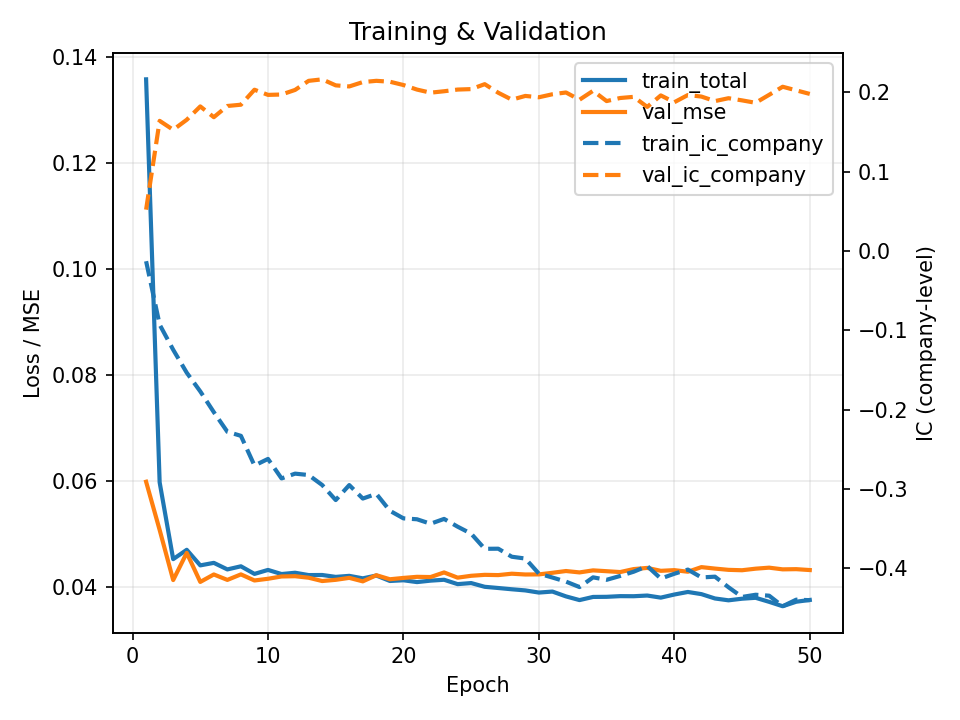
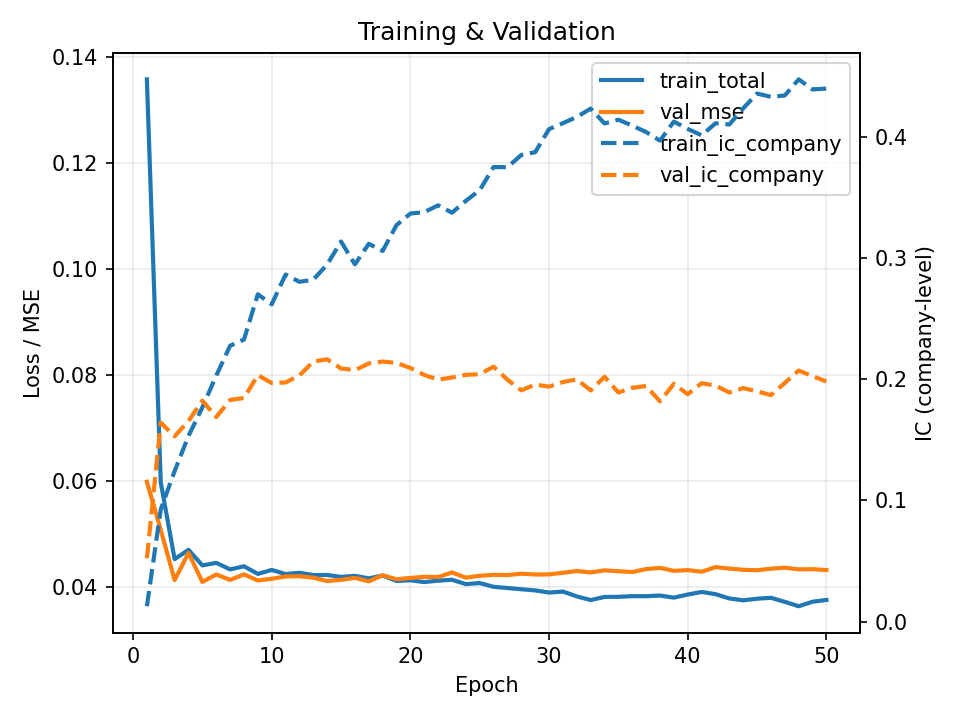
myWork_20251020

diff --git a/model_test.py b/model_test.py
@@ -158,20 +158,26 @@ def information_coefficient_loss(pred: torch.Tensor, target: torch.Tensor, mode:
     else:
         raise ValueError("ic mode must be 'pearson' or 'spearman'")
     return -ic.mean()  # loss
-
+6                                                                                                                                                                                                                                                          
 
 # --------------------------
 # Main model (no cross-attn; concat then MLP)
 # --------------------------
 class ESGMultiModalModel(nn.Module):
     def __init__(self,
-                 d_price: int, d_finance: int, d_news: int, d_event: int,
+                 d_price: int, 
+                 d_finance: int, 
+                 d_news: int, 
+                 d_event: int,
                  hidden: int = 64,
-                 lstm_layers: int = 1, lstm_bidirectional: bool = False,
+                 lstm_layers: int = 1, 
+                 lstm_bidirectional: bool = False,
                  dropout: float = 0.1,
                  nhead_time: int = 4,
-                 news_layers: int = 2, event_layers: int = 2,
-                 ic_weight: float = 0.2, ic_type: str = "pearson"):
+                 news_layers: int = 2, 
+                 event_layers: int = 2,
+                 ic_weight: float = 0.2, 
+                 ic_type: str = "pearson"):
         super().__init__()
         self.ic_weight = ic_weight
         self.ic_type = ic_type
@@ -289,10 +295,10 @@ class ESGMultiModalModel(nn.Module):
                 rp = _rank_transform(pN, dim=1)
                 rt = _rank_transform(tN, dim=1)
                 ic_per_b = _pearson_corr(rp, rt, dim=1)
-            ic_loss = -ic_per_b.mean()
+            ic_loss = ic_per_b.mean()
 
             out["losses"] = {"mse": mse_company, "ic_company": ic_loss,
-                             "total": mse_company + self.ic_weight * ic_loss}
+                             "total": mse_company }
         return out
 
 

diff --git a/model.py b/model.py
@@ -405,11 +405,11 @@ class ESGMultiModalModel(nn.Module):
                 rp = _rank_transform(pN, dim=1)
                 rt = _rank_transform(tN, dim=1)
                 ic_per_b = _pearson_corr(rp, rt, dim=1)
-            ic_loss = -ic_per_b.mean()
+            ic_loss = ic_per_b.mean()
 
             out["losses"] = {"mse": mse_company,
                             "ic_company": ic_loss,
-                            "total": mse_company + self.ic_weight * ic_loss}
+                            "total": mse_company}
         return out
 
 

diff --git a/train_v2.py b/train_v2.py
@@ -507,10 +507,6 @@ def save_test_year_metrics(per_year: Dict[int, dict], years: List[int], out_path
         smape = d.get("smape", None)
         ic    = d.get("ic_company", None)
 
-        # 如有缺漏，用 preds/labels 現算
-        preds  = d.get("preds",  None)
-        labels = d.get("labels", None)
-
         rows.append({
             "year": int(y),
             "mse": float(mse),
